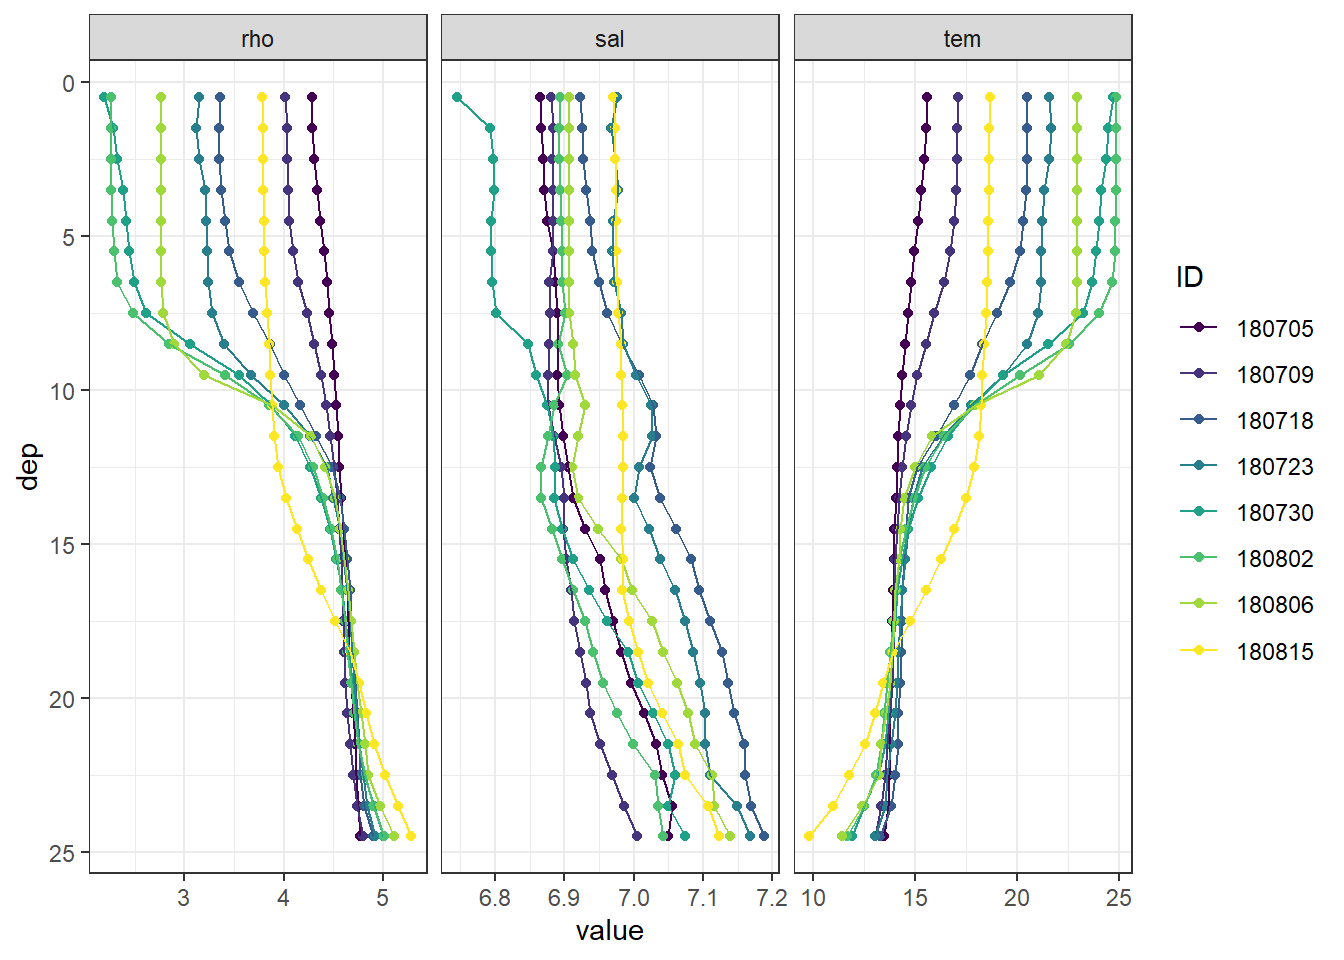
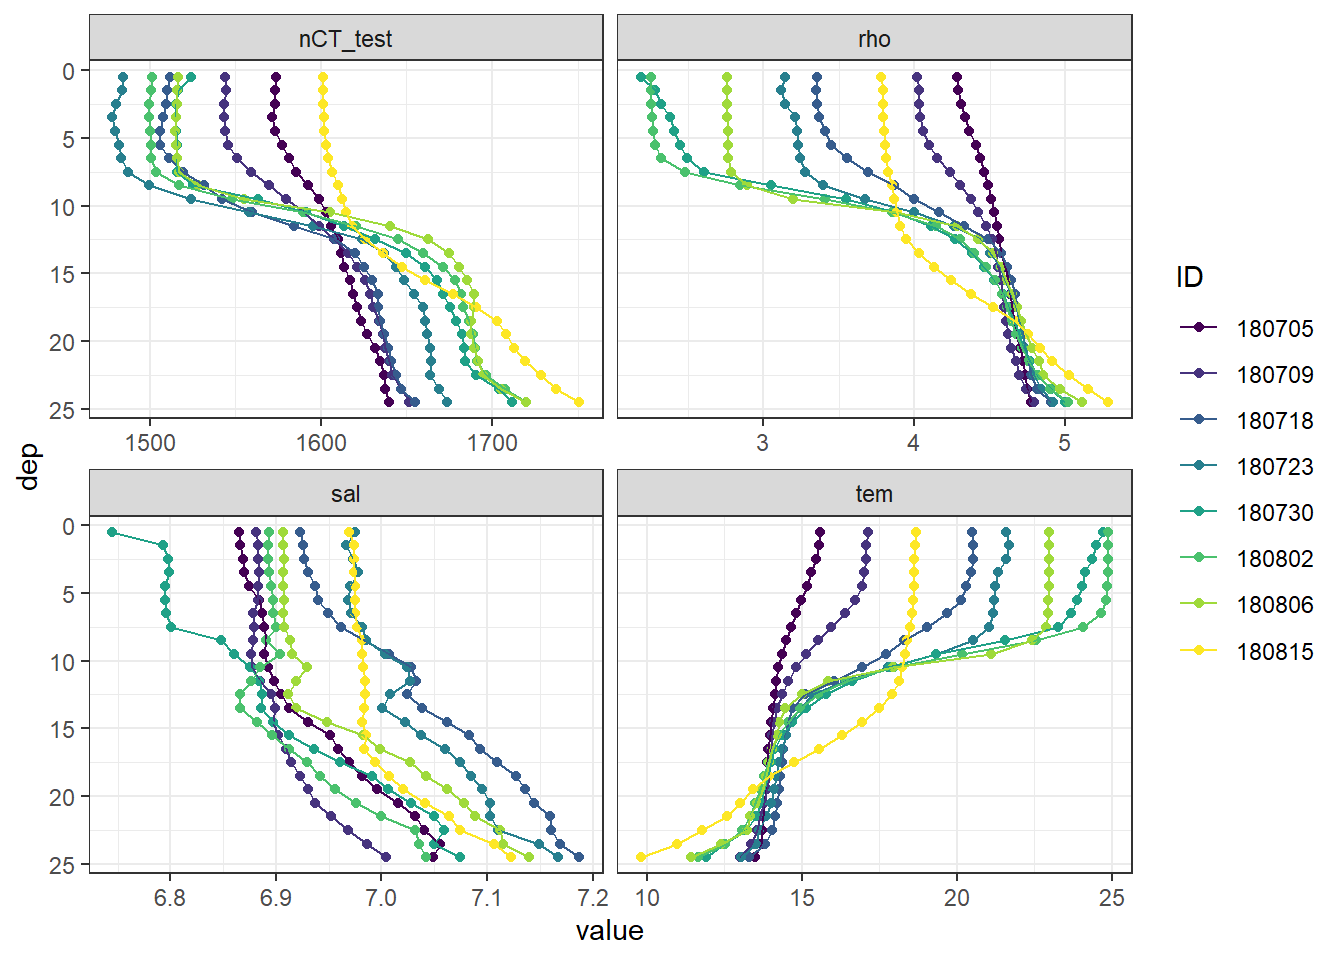
Build site.

diff --git a/docs/CT_dynamics.html b/docs/CT_dynamics.html
@@ -436,7 +436,7 @@ div.tocify {
 
 <h1 class="title toc-ignore">CT dynamics</h1>
 <h4 class="author">Jens Daniel Müller</h4>
-<h4 class="date">01 October, 2020</h4>
+<h4 class="date">15 October, 2020</h4>
 
 </div>
 
@@ -461,7 +461,7 @@ div.tocify {
 <div class="tab-content">
 <div id="summary" class="tab-pane fade in active">
 <p>
-<strong>Last updated:</strong> 2020-10-01
+<strong>Last updated:</strong> 2020-10-15
 </p>
 <p>
 <strong>Checks:</strong> <span class="glyphicon glyphicon-ok text-success" aria-hidden="true"></span> 7 <span class="glyphicon glyphicon-exclamation-sign text-danger" aria-hidden="true"></span> 0
@@ -552,16 +552,16 @@ This reproducible <a href="http://rmarkdown.rstudio.com">R Markdown</a> analysis
 <div class="panel panel-default">
 <div class="panel-heading">
 <p class="panel-title">
-<a data-toggle="collapse" data-parent="#workflowr-checks" href="#strongRepositoryversionstrongahrefhttpsgithubcomjensdanielmuellerBloomSailtreef2f9226f5a612a1a89deff67986fed03472bef6ftargetblankf2f9226a"> <span class="glyphicon glyphicon-ok text-success" aria-hidden="true"></span> <strong>Repository version:</strong> <a href="https://github.com/jens-daniel-mueller/BloomSail/tree/f2f9226f5a612a1a89deff67986fed03472bef6f" target="_blank">f2f9226</a> </a>
+<a data-toggle="collapse" data-parent="#workflowr-checks" href="#strongRepositoryversionstrongahrefhttpsgithubcomjensdanielmuellerBloomSailtreedcfd745ca9e6cbd877eda425c6084c010348cd44targetblankdcfd745a"> <span class="glyphicon glyphicon-ok text-success" aria-hidden="true"></span> <strong>Repository version:</strong> <a href="https://github.com/jens-daniel-mueller/BloomSail/tree/dcfd745ca9e6cbd877eda425c6084c010348cd44" target="_blank">dcfd745</a> </a>
 </p>
 </div>
[2 lines of base64/hex data omitted]
 <div class="panel-body">
 <p>
 Great! You are using Git for version control. Tracking code development and connecting the code version to the results is critical for reproducibility.
 </p>
 <p>
-The results in this page were generated with repository version <a href="https://github.com/jens-daniel-mueller/BloomSail/tree/f2f9226f5a612a1a89deff67986fed03472bef6f" target="_blank">f2f9226</a>. See the <em>Past versions</em> tab to see a history of the changes made to the R Markdown and HTML files.
+The results in this page were generated with repository version <a href="https://github.com/jens-daniel-mueller/BloomSail/tree/dcfd745ca9e6cbd877eda425c6084c010348cd44" target="_blank">dcfd745</a>. See the <em>Past versions</em> tab to see a history of the changes made to the R Markdown and HTML files.
 </p>
 <p>
 Note that you need to be careful to ensure that all relevant files for the analysis have been committed to Git prior to generating the results (you can use <code>wflow_publish</code> or <code>wflow_git_commit</code>). workflowr only checks the R Markdown file, but you know if there are other scripts or data files that it depends on. Below is the status of the Git repository when the results were generated:
@@ -574,41 +574,6 @@ Ignored files:
     Ignored:    data/intermediate/
     Ignored:    data/output_submission/
     Ignored:    output/Plots/Figures_publication/.tmp.drivedownload/
-
-Unstaged changes:
-    Modified:   analysis/_site.yml
-    Modified:   code/Workflowr_project_managment.R
-    Modified:   output/Plots/Figures_publication/Appendix/Phytoplankton_mean_total_biomass.pdf
-    Modified:   output/Plots/Figures_publication/Appendix/TPD_CPD_cumulative.pdf
-    Modified:   output/Plots/Figures_publication/Appendix/TPD_CPD_cumulative.png
-    Modified:   output/Plots/Figures_publication/Appendix/pCO2_RT_corrected_profile_example.pdf
-    Modified:   output/Plots/Figures_publication/Appendix/pCO2_RT_corrected_profile_mean_abs_offset.pdf
-    Modified:   output/Plots/Figures_publication/Appendix/tau_fit_example.pdf
-    Modified:   output/Plots/Figures_publication/Appendix/tb_profiles.pdf
-    Modified:   output/Plots/Figures_publication/Appendix/tb_profiles.png
-    Modified:   output/Plots/Figures_publication/Article/Hov_abs_profiles_cum.pdf
-    Modified:   output/Plots/Figures_publication/Article/Hov_abs_profiles_cum.png
-    Modified:   output/Plots/Figures_publication/Article/atm_water_timeseries.pdf
-    Modified:   output/Plots/Figures_publication/Article/atm_water_timeseries.png
-    Modified:   output/Plots/Figures_publication/Article/data_coverage.pdf
-    Modified:   output/Plots/Figures_publication/Article/profiles_all.pdf
-    Modified:   output/Plots/Figures_publication/Article/profiles_all.png
-    Modified:   output/Plots/Figures_publication/Article/reconstruction_NCP_timeseries.pdf
-    Modified:   output/Plots/Figures_publication/Article/reconstruction_NCP_timeseries.png
-    Modified:   output/Plots/Figures_publication/Article/reconstruction_iCT_timeseries.pdf
-    Modified:   output/Plots/Figures_publication/Article/reconstruction_iCT_timeseries.png
-    Modified:   output/Plots/Figures_publication/Article/station_map.pdf
-    Modified:   output/Plots/merging_interpolation/Zero_time_synchronization.pdf
-    Modified:   output/Plots/read_in/th_deployments.pdf
-    Modified:   output/Plots/response_time/all_plots.pdf
-    Modified:   output/Plots/response_time/profiles_pCO2.pdf
-    Modified:   output/Plots/response_time/profiles_pCO2_delta_grid.pdf
-    Modified:   output/Plots/response_time/profiles_pCO2_delta_rel_grid.pdf
-    Modified:   output/Plots/response_time/profiles_pCO2_grid.pdf
-    Deleted:    output/Plots/response_time/profiles_pCO2_mean.pdf
-    Deleted:    output/Plots/response_time/profiles_pCO2_mean_grid.pdf
-    Modified:   output/Plots/response_time/tau_determination_pCO2_corr_flushperiods_nls.pdf
-    Modified:   output/Plots/response_time/time_series_depth_pCO2_corr_by_profile.pdf
 
 </code></pre>
 <p>
@@ -647,6 +612,40 @@ Message
 </tr>
 </thead>
 <tbody>
+<tr>
+<td>
+Rmd
+</td>
+<td>
+<a href="https://github.com/jens-daniel-mueller/BloomSail/blob/dcfd745ca9e6cbd877eda425c6084c010348cd44/analysis/CT_dynamics.Rmd" target="_blank">dcfd745</a>
+</td>
+<td>
+jens-daniel-mueller
+</td>
+<td>
+2020-10-15
+</td>
+<td>
+included AT sensitivity analysis
+</td>
+</tr>
+<tr>
+<td>
+html
+</td>
+<td>
+<a href="https://rawcdn.githack.com/jens-daniel-mueller/BloomSail/6896725c5c1e82dac9b0e7069def116a78d551ea/docs/CT_dynamics.html" target="_blank">6896725</a>
+</td>
+<td>
+jens-daniel-mueller
+</td>
+<td>
+2020-10-01
+</td>
+<td>
+Build site.
+</td>
+</tr>
 <tr>
 <td>
 html
@@ -3952,7 +3951,7 @@ ggsave(
   units = &quot;mm&quot;
 )
 
-rm(tb_long_mean, p_AT, p_CT, p_nCT, tb_fix, AT_sd)</code></pre>
+rm(tb_long_mean, p_AT, p_CT, p_nCT, tb_fix)</code></pre>
 </div>
 </div>
 <div id="surface-time-series" class="section level2">
@@ -4005,6 +4004,22 @@ Time series of bottle data. Shown are mean values of samples collected at water 
       24,
       var1 = pCO2,
       var2 = AT_mean * 1e-6,
+      S = sal_mean,
+      T = tem,
+      P = dep / 10,
+      k1k2 = &quot;m10&quot;,
+      kf = &quot;dg&quot;,
+      ks = &quot;d&quot;,
+      gas = &quot;insitu&quot;
+    )[, 16] * 1e6
+  )
+
+tm_profiles &lt;- tm_profiles %&gt;%
+  mutate(
+    nCT_test = carb(
+      24,
+      var1 = pCO2,
+      var2 = (AT_mean + 2*AT_sd) * 1e-6,
       S = sal_mean,
       T = tem,
       P = dep / 10,
@@ -4110,13 +4125,24 @@ tm_profiles_ID_sd &lt;- tm_profiles %&gt;%
   ungroup()
 
 tm_profiles_ID_sd_long &lt;- tm_profiles_ID_sd %&gt;%
-  pivot_longer(sal:nCT, names_to = &quot;var&quot;, values_to = &quot;sd&quot;)
+  pivot_longer(sal:nCT_test, names_to = &quot;var&quot;, values_to = &quot;sd&quot;)
 
 tm_profiles_ID_mean_long &lt;- tm_profiles_ID_mean %&gt;%
-  pivot_longer(sal:nCT, names_to = &quot;var&quot;, values_to = &quot;value&quot;)
+  pivot_longer(sal:nCT_test, names_to = &quot;var&quot;, values_to = &quot;value&quot;)
 
-tm_profiles_ID_long &lt;-
+tm_profiles_ID_long_test &lt;-
   inner_join(tm_profiles_ID_mean_long, tm_profiles_ID_sd_long)
+
+tm_profiles_ID_long &lt;- tm_profiles_ID_long_test %&gt;% 
+  filter(var != &quot;nCT_test&quot;)
+
+tm_profiles_ID_mean_test &lt;- tm_profiles_ID_mean
+
+tm_profiles_ID_mean_test &lt;- tm_profiles_ID_mean_test %&gt;% 
+  mutate(nCT_delta = nCT - nCT_test)
+
+tm_profiles_ID_mean &lt;- tm_profiles_ID_mean %&gt;%
+  select(-nCT_test)
 
 tm_profiles_ID_mean %&gt;%
   write_csv(here::here(&quot;data/intermediate/_merged_data_files/CT_dynamics&quot;, &quot;tm_profiles_ID.csv&quot;))
@@ -4136,6 +4162,20 @@ rm(
   facet_wrap( ~ var, scales = &quot;free_x&quot;)</code></pre>
 <div class="figure" style="text-align: center">
 <img src="figure/CT_dynamics.Rmd/nCT_profiles_all-1.png" alt="Mean vertical profiles per cruise day across all stations." width="672" />
+<p class="caption">
+Mean vertical profiles per cruise day across all stations.
+</p>
+</div>
+<div id="nct-sensitivity-to-at" class="section level3">
+<h3><span class="header-section-number">3.3.1</span> nCT sensitivity to AT</h3>
+<pre class="r"><code>tm_profiles_ID_mean_test %&gt;%
+  ggplot(aes(nCT_delta - mean(nCT_delta), dep, col = ID)) +
+  geom_point() +
+  geom_path() +
+  scale_y_reverse() +
+  scale_color_viridis_d()</code></pre>
+<div class="figure" style="text-align: center">
+<img src="figure/CT_dynamics.Rmd/nCT_profiles_delta-1.png" alt="Mean vertical profiles per cruise day across all stations." width="672" />
 <p class="caption">
 Mean vertical profiles per cruise day across all stations.
 </p>
@@ -4170,6 +4210,7 @@ Mean vertical profiles per cruise day across all stations plotted indivdually. R
 <ul>
 <li>the standard deviation of C<sub>T</sub> in the upper 10m increases on June 30.</li>
 </ul>
+</div>
 </div>
 <div id="individual-profiles" class="section level2">
 <h2><span class="header-section-number">3.4</span> Individual profiles</h2>
@@ -4380,6 +4421,26 @@ tm_profiles_ID_long_grid %&gt;%
   theme(axis.title.x = element_blank())</code></pre>
 <p><img src="figure/CT_dynamics.Rmd/observed_timeseries-1.png" width="672" style="display: block; margin: auto;" /></p>
 <pre class="r"><code>rm(tm_profiles_ID_long_grid)</code></pre>
+<div id="test-at-sensitivity" class="section level3">
+<h3><span class="header-section-number">4.1.1</span> Test AT sensitivity</h3>
+<p>Mean seawater CT were calculated for 5m depth intervals based on two AT values.</p>
+<pre class="r"><code>tm_profiles_ID_long_grid &lt;- tm_profiles_ID_long_test %&gt;%
+  mutate(dep = cut(dep, seq(0, 30, 5))) %&gt;%
+  group_by(ID, date_time_ID, dep, var)  %&gt;%
+  summarise_all(list(mean), na.rm = TRUE)
+
+tm_profiles_ID_long_grid %&gt;%
+  filter(var %in% c(&quot;nCT&quot;, &quot;nCT_test&quot;)) %&gt;% 
+  ggplot(aes(date_time_ID, value, col = as.factor(dep))) +
+  geom_path() +
+  geom_point() +
+  scale_color_viridis_d(name = &quot;Depth (m)&quot;) +
+  scale_x_datetime(breaks = &quot;week&quot;, date_labels = &quot;%d %b&quot;) +
+  facet_wrap( ~ var, scales = &quot;free_y&quot;, ncol = 1) +
+  theme(axis.title.x = element_blank())</code></pre>
+<p><img src="figure/CT_dynamics.Rmd/observed_timeseries_nCT_delta-1.png" width="672" style="display: block; margin: auto;" /></p>
+<pre class="r"><code>rm(tm_profiles_ID_long_grid)</code></pre>
+</div>
 </div>
 <div id="hovmoeller-plots" class="section level2">
 <h2><span class="header-section-number">4.2</span> Hovmoeller plots</h2>
